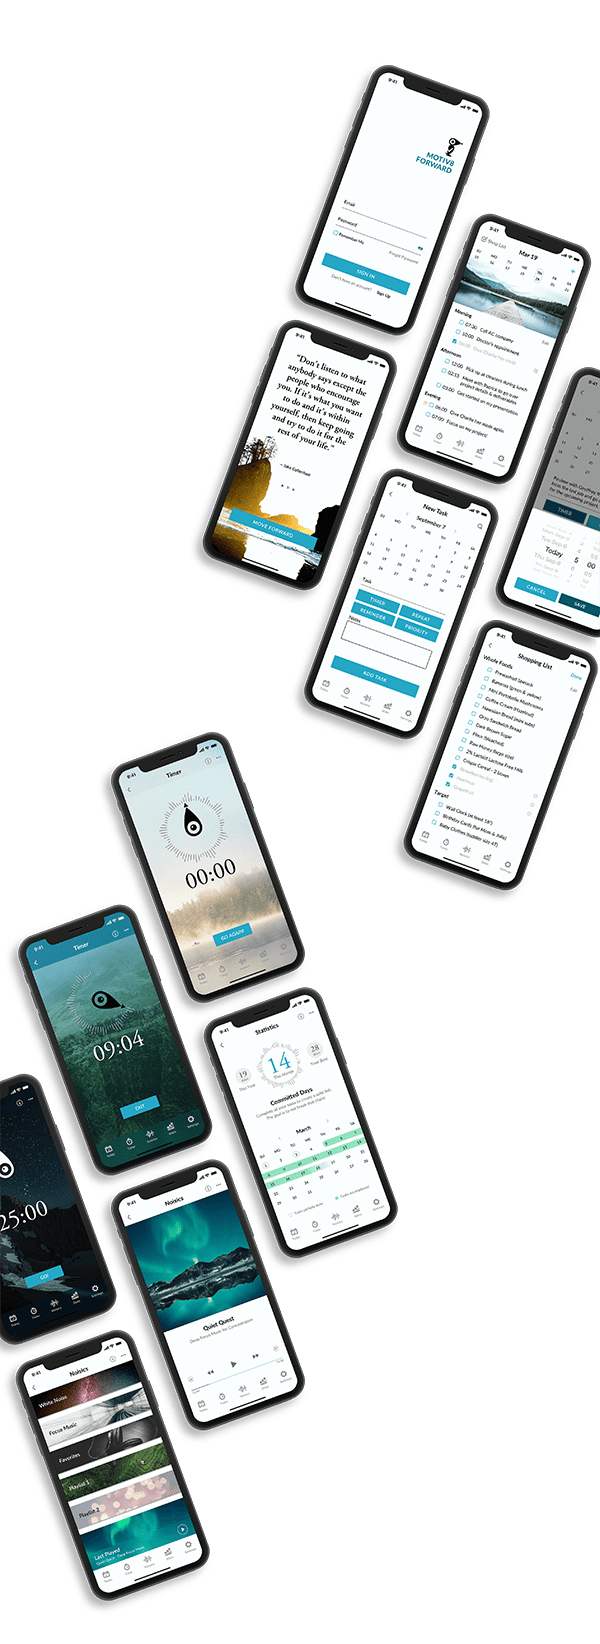
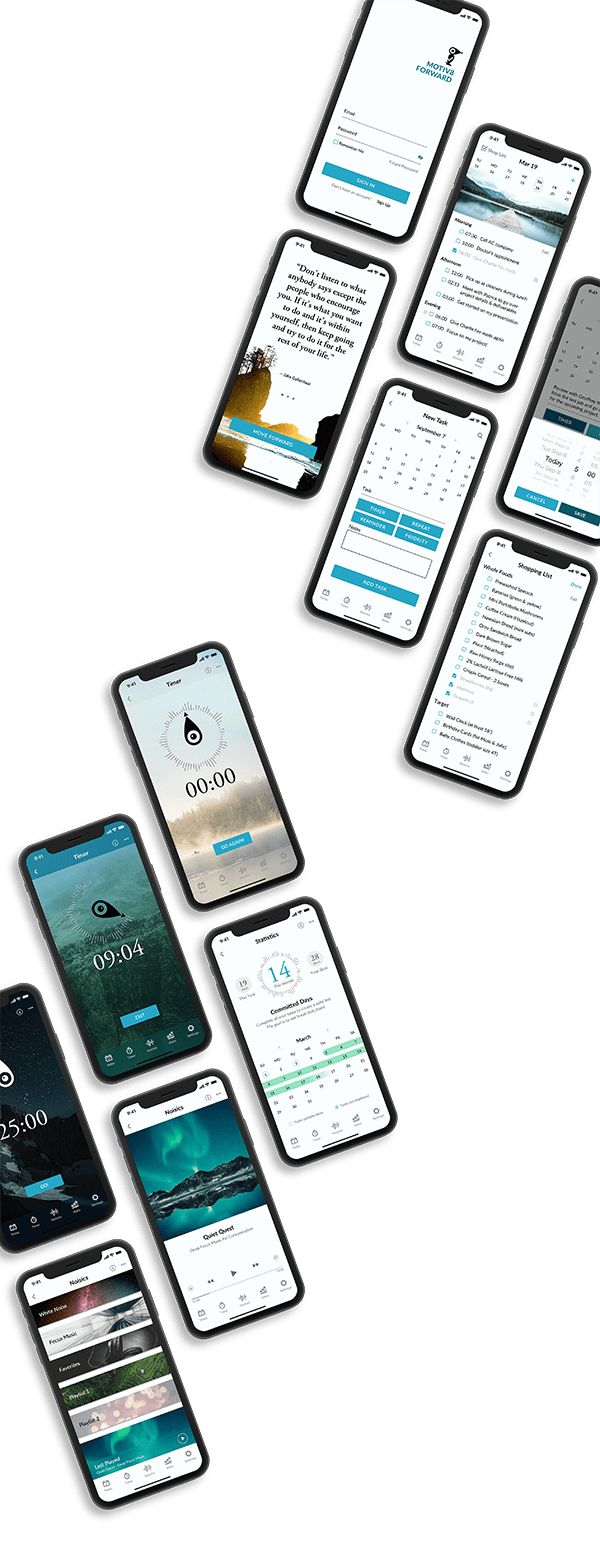
mf css updated

Changed region(s): [[0.33, 0.0, 1.0, 0.5563], [0.0, 0.4018, 0.66, 0.9891]]

diff --git a/motiv8forward.html b/motiv8forward.html
@@ -48,7 +48,42 @@
           src="./img/7-motiv8-fwd/7-mf-imgs/mf-logo-main.svg"
           alt="Motiv8 Forward logo"
         />
+        <div class="col-12 col-md-12 col-lg-4 col-xl-4">
+          <div class="mfIntroText">
+            <div class="projType">
+              <h4>UI DESIGN</h4>
+            </div>
 
+            <h1>SIMPLY STAY ON TASK, FOCUSED & MOTIVATED</h1>
+
+            <p>
+              Motiv8 Forward is an iOS app for users looking for a simple task
+              app that has the user keeping track of their tasks and shopping
+              lists, it is also a positive motivation tool.
+            </p>
+
+            <h3>Timer</h3>
+            <p>
+              that uses the Pomodoro Technique, a time management method that
+              breaks down the work into intervals of 25 minutes in length.
+            </p>
+            <h3>Noisics</h3>
+            <p>
+              a selection of white noise and soft background music.<br />(Noise
+              + Music = Noisics)
+            </p>
+            <h3>Statistics</h3>
+            <p>
+              that keeps track if the user fulfills all their tasks each day.
+              The more the user consistently commits each day to their tasks,
+              the chain forms. The concept is to not break the chain and see how
+              long of a chain can be made. This is known as the Seinfield
+              Strategy. The comedian? Yes, Jerry Seinfield came up with this
+              concept to beat procrastination and to consistently produce
+              quality work.
+            </p>
+          </div>
+        </div>
         <div class="mfMain">
           <picture>
             <source
@@ -64,43 +99,8 @@
 
         <div class="container">
           <div class="row">
-            <div class="col-12 col-md-12 col-lg-8 col-xl-8"></div>
-            <div class="col-12 col-md-12 col-lg-4 col-xl-4">
-              <div class="mfIntroText">
-                <div class="projType">
-                  <h4>UI DESIGN</h4>
-                </div>
-
-                <h1>SIMPLY STAY ON TASK, FOCUSED & MOTIVATED</h1>
-
-                <p>
-                  Motiv8 Forward is an iOS app for users looking for a simple
-                  task app that has the user keeping track of their tasks and
-                  shopping lists, it is also a positive motivation tool.
-                </p>
-
-                <h3>Timer</h3>
-                <p>
-                  that uses the Pomodoro Technique, a time management method
-                  that breaks down the work into intervals of 25 minutes in
-                  length.
-                </p>
-                <h3>Noisics</h3>
-                <p>
-                  a selection of white noise and soft background music.<br />(Noise
-                  + Music = Noisics)
-                </p>
-                <h3>Statistics</h3>
-                <p>
-                  that keeps track if the user fulfills all their tasks each
-                  day. The more the user consistently commits each day to their
-                  tasks, the chain forms. The concept is to not break the chain
-                  and see how long of a chain can be made. This is known as the
-                  Seinfield Strategy. The comedian? Yes, Jerry Seinfield came up
-                  with this concept to beat procrastination and to consistently
-                  produce quality work.
-                </p>
-              </div>
+            <div class="col-12 col-md-12 col-lg-8 col-xl-8">
+              <div class="emptySpace"></div>
             </div>
           </div>
         </div>

diff --git a/css/mf-style.css b/css/mf-style.css
@@ -6,11 +6,16 @@
   position: absolute;
   z-index: 2;
 }
+.mfIntroText {
+  position: absolute;
+  top: 148%;
+  padding: 0 32px 0 16px;
+  width: 100%;
+}
 
 .mfMain {
   /*---background phone image--*/
   position: relative;
-  top: -52px;
   z-index: -4;
   width: 100%;
 }
@@ -19,12 +24,13 @@
   display: inline-block;
   padding: 0px 16px;
   position: relative;
-  top: -250px;
 }
 
 #mfBackground {
   /* ------- main background ------- */
   position: fixed;
+  top: 0;
+  left: 0;
   z-index: -5;
   margin: 0;
   width: 100%;
@@ -49,13 +55,8 @@
   line-height: 0%;
 }
 
-.mfIntroText {
-  display: inline-block;
-  padding: 0 16px;
-}
-
 .mfLowFi {
-  padding-top: 72px;
+  padding-top: 724px;
   padding-bottom: 24px;
 }
 
@@ -157,11 +158,17 @@ Medium devices (640px and larger)
     position: absolute;
     z-index: 2;
   }
+  .mfIntroText {
+    position: absolute;
+    top: 208%;
+    padding: 0 56px 0 48px;
+    width: 100%;
+  }
 
   .mfMain {
     /*---background phone image--*/
     position: relative;
-    top: -125px;
+    top: -32px;
     z-index: -4;
     width: 100%;
   }
@@ -170,7 +177,6 @@ Medium devices (640px and larger)
     display: inline-block;
     padding: 0px 48px;
     position: relative;
-    top: -485px;
   }
 
   #mfBackground {
@@ -202,9 +208,8 @@ Medium devices (640px and larger)
     line-height: 0%;
   }
 
-  .mfIntroText {
-    display: inline-block;
-    padding: 0 16px;
+  .mfLowFi {
+    padding-top: 616px;
   }
 
   .mfInspirationBrd {
@@ -286,11 +291,17 @@ Large devices (1024px or larger)
     left: 48px;
     z-index: 2;
   }
+  .mfIntroText {
+    position: absolute;
+    top: 180%;
+    left: 65%;
+    width: 35%;
+  }
 
   .mfMain {
     /*---background phone image--*/
     position: relative;
-    top: -200px;
+    top: -52px;
     margin: 0;
     z-index: -4;
     width: 100%;
@@ -300,7 +311,6 @@ Large devices (1024px or larger)
     display: inline-block;
     padding: 0px 88px;
     position: relative;
-    top: -2100px;
   }
 
   #mfBackground {
@@ -332,13 +342,9 @@ Large devices (1024px or larger)
     line-height: 0%;
   }
 
-  .mfIntroText {
-    display: inline-block;
-    padding: 0px;
-  }
-  /* ----
   .mfLowFi {
-  }  ---*/
+    padding-top: 0px;
+  }
 
   .mfInspirationBrd {
     padding-top: 168px;
@@ -418,11 +424,17 @@ X-large devices (1440px or larger)
     left: 56px;
     z-index: 2;
   }
+  .mfIntroText {
+    position: absolute;
+    top: 210%;
+    left: 67%;
+    width: 27%;
+  }
 
   .mfMain {
     /*---background phone image--*/
     position: relative;
-    top: -305px;
+    top: -200px;
     margin: 0;
     z-index: -4;
     width: 100%;
@@ -461,11 +473,6 @@ X-large devices (1440px or larger)
     margin-top: 40px;
     padding-bottom: 24px;
     line-height: 0%;
-  }
-
-  .mfIntroText {
-    display: inline-block;
-    padding: 0px;
   }
 
   .mfInspirationBrd {

diff --git a/css/style.css b/css/style.css
@@ -367,9 +367,9 @@ header .container {
   width: 18px;
   height: 16px;
   transition: 150ms ease-in-out;
-  margin: auto;
-
-  margin-bottom: 112px;
+  margin: 0 auto;
+  margin-top: 150px;
+  margin-bottom: 48px;
 }
 .arrowup:hover {
   background: url("../img/1-home/1-imgs/arrow-dots.svg") no-repeat;
